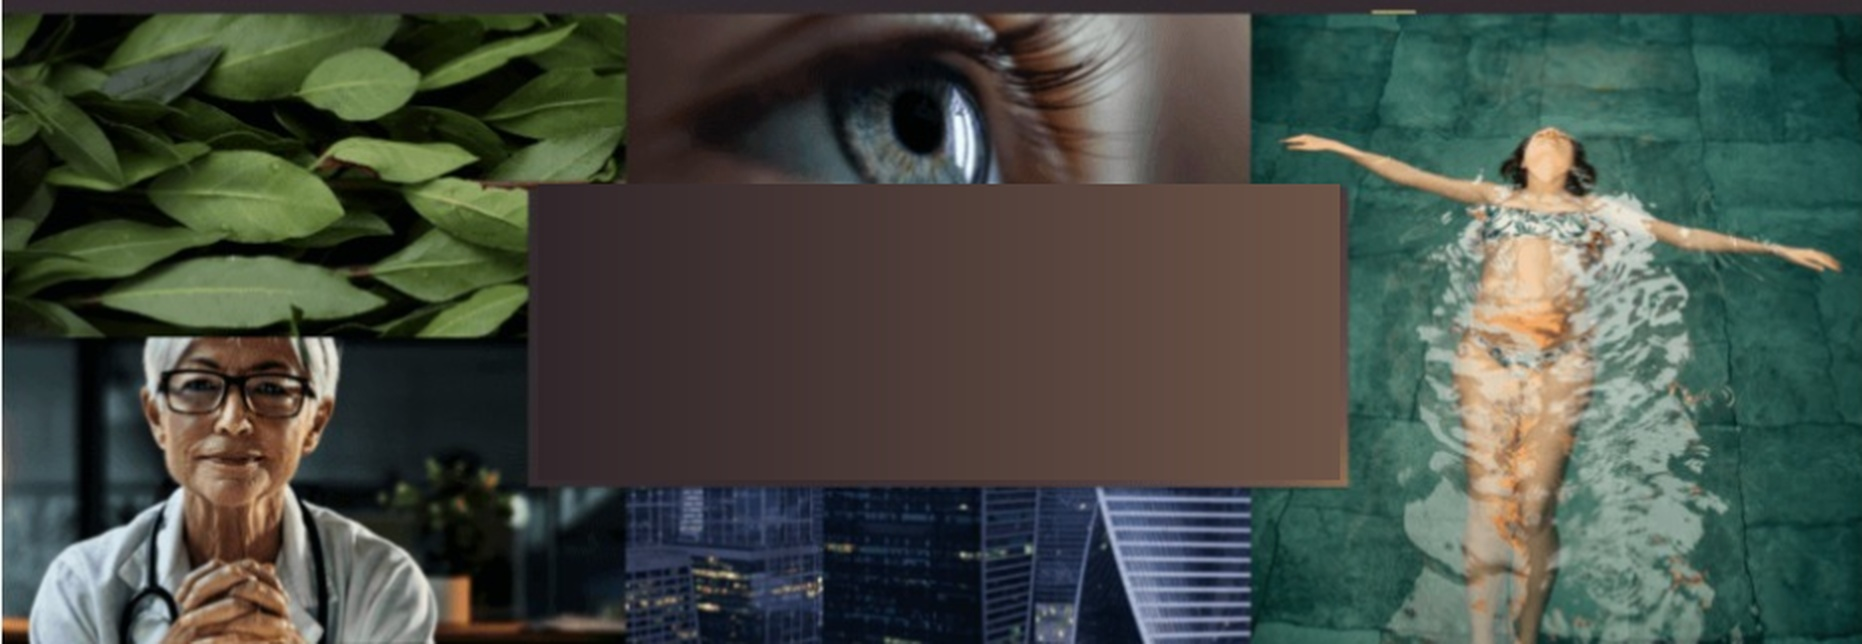
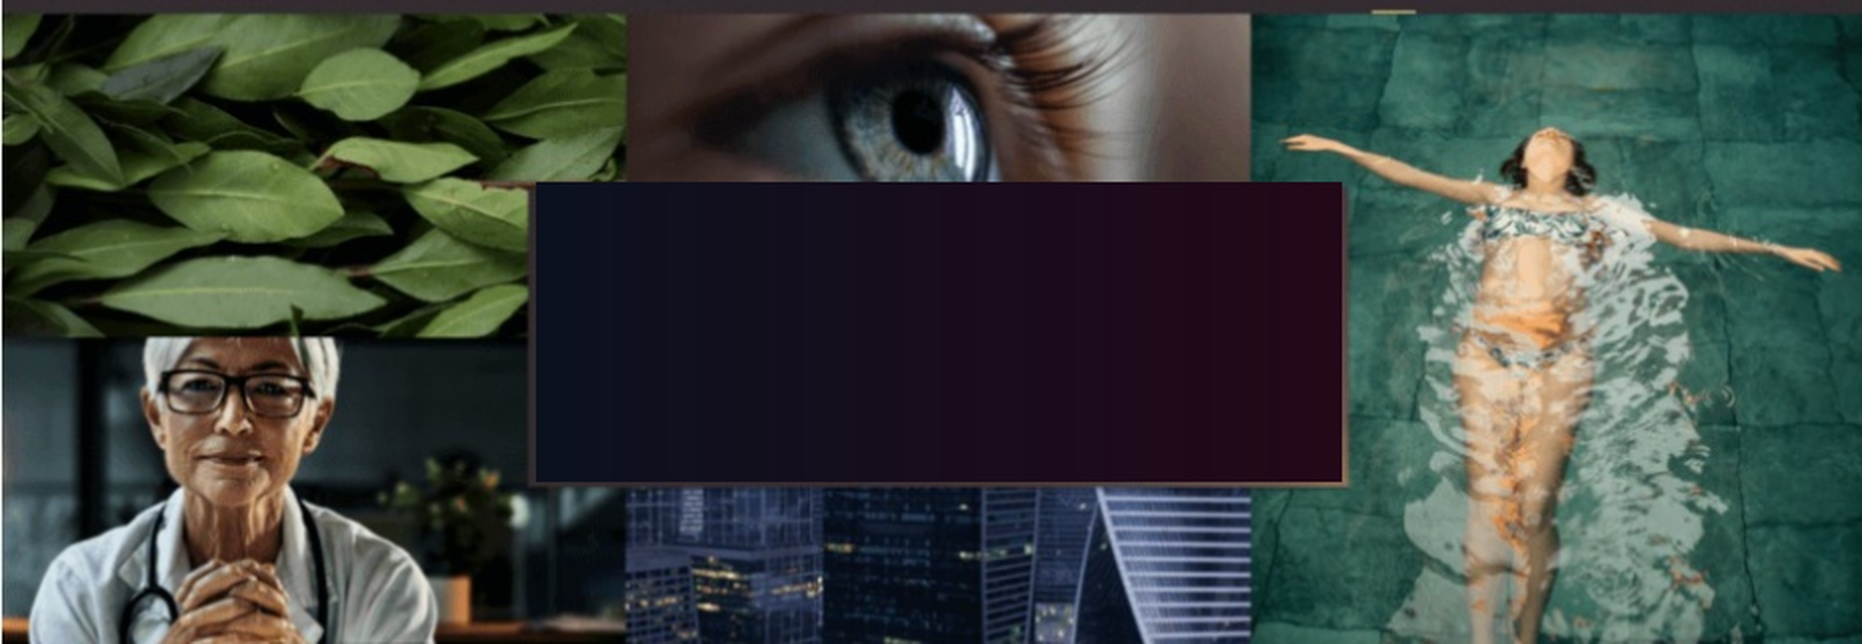
style: aplicar tarjeta glassmorphism con colorimetria UIDE oficial (Pantone 221C, 288C, 124C) y remover elementos tachados

Changed region(s): [[0.2803, 0.2795, 0.7476, 0.7453]]

diff --git a/components/hero/UideHeroBanner.tsx b/components/hero/UideHeroBanner.tsx
@@ -1,7 +1,7 @@
 "use client";
 
 import React from "react";
-import { ArrowRight, GraduationCap, ShieldCheck, Sparkles } from "lucide-react";
+import { ArrowRight, GraduationCap, ShieldCheck } from "lucide-react";
 import { getAssetPath } from "@/lib/paths";
 
 interface UideHeroBannerProps {
@@ -14,76 +14,54 @@ export default function UideHeroBanner({
   onOpenSavingsForm,
 }: UideHeroBannerProps) {
   return (
-    <section className="relative w-full overflow-hidden bg-[#0d070b] text-white select-none border-b border-white/10">
+    <section className="relative w-full overflow-hidden bg-[#08090C] text-white select-none border-b border-white/10">
       {/* ========================================================
-          VISUAL COLLAGE CONTAINER (Exact 5 photographic scenes from reference)
-          Desktop: Maintains 1862/644 aspect ratio.
-          Mobile/Tablet: Responsive height with centered focus.
+          VISUAL COLLAGE CONTAINER (5 escenas fotográficas HD)
          ======================================================== */}
-      <div className="relative w-full min-h-[460px] sm:min-h-[520px] md:min-h-[580px] lg:aspect-[1862/644] flex items-center justify-center p-3 sm:p-6 lg:p-8">
+      <div className="relative w-full min-h-[460px] sm:min-h-[520px] md:min-h-[560px] lg:aspect-[1862/644] flex items-center justify-center p-4 sm:p-6 lg:p-8">
         {/* Background HD Collage */}
         <div
-          className="absolute inset-0 bg-cover bg-center filter brightness-[0.95] contrast-[1.02]"
+          className="absolute inset-0 bg-cover bg-center filter brightness-[0.92] contrast-[1.05]"
           style={{
             backgroundImage: `url(${getAssetPath("/images/hero/hero_clean_hd.jpg")})`,
           }}
         />
 
-        {/* Subtle vignette around edges for cinematic polish */}
-        <div className="absolute inset-0 bg-gradient-to-t from-[#08090C]/60 via-transparent to-[#08090C]/40 pointer-events-none" />
+        {/* Cinematic Vignette */}
+        <div className="absolute inset-0 bg-gradient-to-t from-[#08090C]/70 via-transparent to-[#08090C]/40 pointer-events-none" />
 
         {/* ========================================================
-            CENTRAL FLOATING HERO CARD (Matching Reference Layout & Style)
-            Floating horizontally in the center over the photographic mosaic
-           ======================================================== */}
-        <div className="relative z-10 max-w-2xl sm:max-w-3xl w-full mx-auto px-5 py-6 sm:px-8 sm:py-8 lg:px-10 lg:py-8 rounded-2xl bg-gradient-to-r from-[#2c1d22]/95 via-[#3b272d]/95 to-[#5a3e36]/95 border border-[#d4af37]/50 shadow-[0_20px_50px_rgba(0,0,0,0.85),0_0_40px_rgba(212,175,55,0.2)] backdrop-blur-xl text-center space-y-3 sm:space-y-4">
-          {/* Brand Eyebrow with Poppins */}
-          <div className="flex items-center justify-center space-x-2">
-            <span className="h-px w-6 sm:w-10 bg-gradient-to-r from-transparent to-[#d4af37]" />
-            <span className="font-poppins text-[10px] sm:text-xs font-semibold tracking-[0.25em] text-[#d4af37] uppercase">
-              MÁS QUE UNA UNIVERSIDAD,
-            </span>
-            <span className="h-px w-6 sm:w-10 bg-gradient-to-l from-transparent to-[#d4af37]" />
-          </div>
-
-          {/* Main Headline with Brachial / Poppins bold */}
-          <h1 className="font-brachial text-2xl sm:text-4xl lg:text-5xl font-black uppercase text-[#fceda2] tracking-[0.14em] sm:tracking-[0.18em] leading-tight drop-shadow-lg">
-            EL FUTURO NO ESPERA.{" "}
-            <span className="block text-white mt-1">EMPIEZA HOY.</span>
+          GLASSMORPHIC FLOATING CARD (Colorimetría UIDE: Pantone 221 C, 288 C, 124 C)
+          Sin textos tachados: Solo titular en Brachial/Poppins y botones CTA
+         ======================================================== */}
+        <div className="relative z-10 max-w-xl sm:max-w-2xl lg:max-w-3xl w-full mx-auto px-6 py-8 sm:px-10 sm:py-10 lg:px-12 lg:py-10 rounded-2xl sm:rounded-3xl bg-gradient-to-br from-[#910048]/35 via-[#002D72]/40 to-[#08090C]/75 border border-white/20 hover:border-[#EAAA00]/50 shadow-[0_25px_60px_rgba(0,0,0,0.85),0_0_40px_rgba(145,0,72,0.3),inset_0_1px_1px_rgba(255,255,255,0.25)] backdrop-blur-2xl text-center space-y-5 sm:space-y-6 transition-all duration-300">
+          {/* Main Headline with Brachial (Syncopate) + Poppins:
+              Line 1 & 2 in UIDE Gold (Pantone 124 C #EAAA00), Line 3 in crisp white
+          */}
+          <h1 className="font-brachial text-2xl sm:text-4xl lg:text-5xl font-black uppercase tracking-[0.14em] sm:tracking-[0.18em] leading-tight drop-shadow-2xl">
+            <span className="block text-[#EAAA00]">EL FUTURO NO</span>
+            <span className="block text-[#EAAA00] mt-1 sm:mt-2">ESPERA.</span>
+            <span className="block text-white mt-1 sm:mt-2">EMPIEZA HOY.</span>
           </h1>
 
-          {/* Persuasion Body with Cialdini Principles (Urgencia + Autoridad + Prueba Social) */}
-          <p className="font-poppins text-xs sm:text-sm text-slate-200 leading-relaxed max-w-xl mx-auto font-normal">
-            <strong className="text-[#fceda2] font-semibold">El tiempo es el factor decisivo:</strong> cada año que postergas multiplica el costo de la colegiatura. Asegura hoy el cupo universitario de tus hijos en la universidad <strong className="text-white">#1 en innovación de Ecuador</strong>, con el respaldo fiduciario de <strong className="text-white">Diners Club</strong> y la póliza 100% garantizada de <strong className="text-white">Raúl Coka Barriga</strong>.
-          </p>
-
-          {/* Golden CTA Button (Matching Reference "DISCOVER PRIVATE CLIENT") */}
+          {/* Golden CTA Button (Pantone 124 C) + Secondary Glass Button */}
           <div className="pt-2 flex flex-col sm:flex-row items-center justify-center gap-3">
             <button
               onClick={onOpenSimulator}
-              className="w-full sm:w-auto px-7 sm:px-9 py-3 sm:py-3.5 rounded-lg bg-gradient-to-r from-[#d4af37] via-[#f3e5ab] to-[#c5a059] hover:from-[#e5bf48] hover:via-[#fff3bd] hover:to-[#d6b16a] text-[#1a1200] font-poppins text-xs sm:text-sm font-black uppercase tracking-[0.12em] transition-all duration-300 shadow-[0_0_25px_rgba(212,175,55,0.6)] hover:shadow-[0_0_35px_rgba(212,175,55,0.85)] hover:scale-105 active:scale-95 cursor-pointer flex items-center justify-center space-x-2.5 border border-yellow-200"
+              className="w-full sm:w-auto px-8 py-3.5 sm:py-4 rounded-xl bg-gradient-to-r from-[#EAAA00] via-[#FFC72C] to-[#EAAA00] hover:brightness-110 text-[#08090C] font-poppins text-xs sm:text-sm font-black uppercase tracking-[0.12em] transition-all duration-300 shadow-[0_0_30px_rgba(234,170,0,0.65)] hover:shadow-[0_0_45px_rgba(234,170,0,0.9)] hover:scale-105 active:scale-95 cursor-pointer flex items-center justify-center space-x-2.5 border border-yellow-200"
             >
-              <GraduationCap className="w-4 h-4 text-[#1a1200]" />
+              <GraduationCap className="w-4 h-4 text-[#08090C]" />
               <span>COMENZAR MI PLAN DE AHORRO</span>
-              <ArrowRight className="w-4 h-4 text-[#1a1200]" />
+              <ArrowRight className="w-4 h-4 text-[#08090C]" />
             </button>
 
             <button
               onClick={onOpenSavingsForm}
-              className="w-full sm:w-auto px-5 py-3 sm:py-3.5 rounded-lg bg-black/50 hover:bg-black/70 text-slate-200 hover:text-white border border-[#d4af37]/40 font-poppins text-xs font-semibold uppercase tracking-wider transition-colors cursor-pointer flex items-center justify-center space-x-2"
+              className="w-full sm:w-auto px-6 py-3.5 sm:py-4 rounded-xl bg-white/10 hover:bg-white/20 text-white border border-white/20 hover:border-[#EAAA00]/50 font-poppins text-xs font-semibold uppercase tracking-wider transition-all duration-300 cursor-pointer flex items-center justify-center space-x-2 backdrop-blur-md active:scale-95"
             >
-              <ShieldCheck className="w-4 h-4 text-[#d4af37]" />
+              <ShieldCheck className="w-4 h-4 text-[#EAAA00]" />
               <span>Conocer Beca PAD 25%</span>
             </button>
-          </div>
-
-          {/* Tri-brand Subtle Accreditation */}
-          <div className="pt-2 text-[10px] sm:text-[11px] font-poppins text-slate-300 tracking-wider flex items-center justify-center space-x-3 opacity-90">
-            <span>UIDE Powered by ASU</span>
-            <span className="text-[#d4af37]">•</span>
-            <span>Banco Diners Club</span>
-            <span className="text-[#d4af37]">•</span>
-            <span>Raúl Coka Barriga</span>
           </div>
         </div>
       </div>
